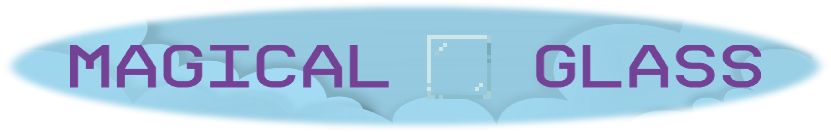
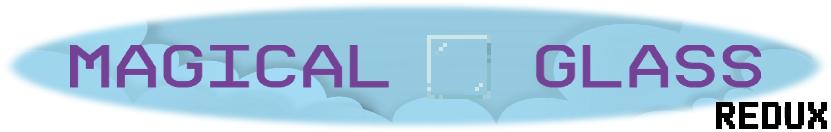
redux

Changed region(s): [[0.8424, 0.7576, 1.0, 1.0]]

diff --git a/README.md b/README.md
@@ -1,4 +1,4 @@
-# Magical Glass for [Kristal](https://github.com/KristalTeam/Kristal)
+# Magical Glass: Redux for [Kristal](https://github.com/KristalTeam/Kristal)
 
 <p align="center" width="100%">
 <img src="magicalglass.png" alt="Magical Glass" width="50%" />
